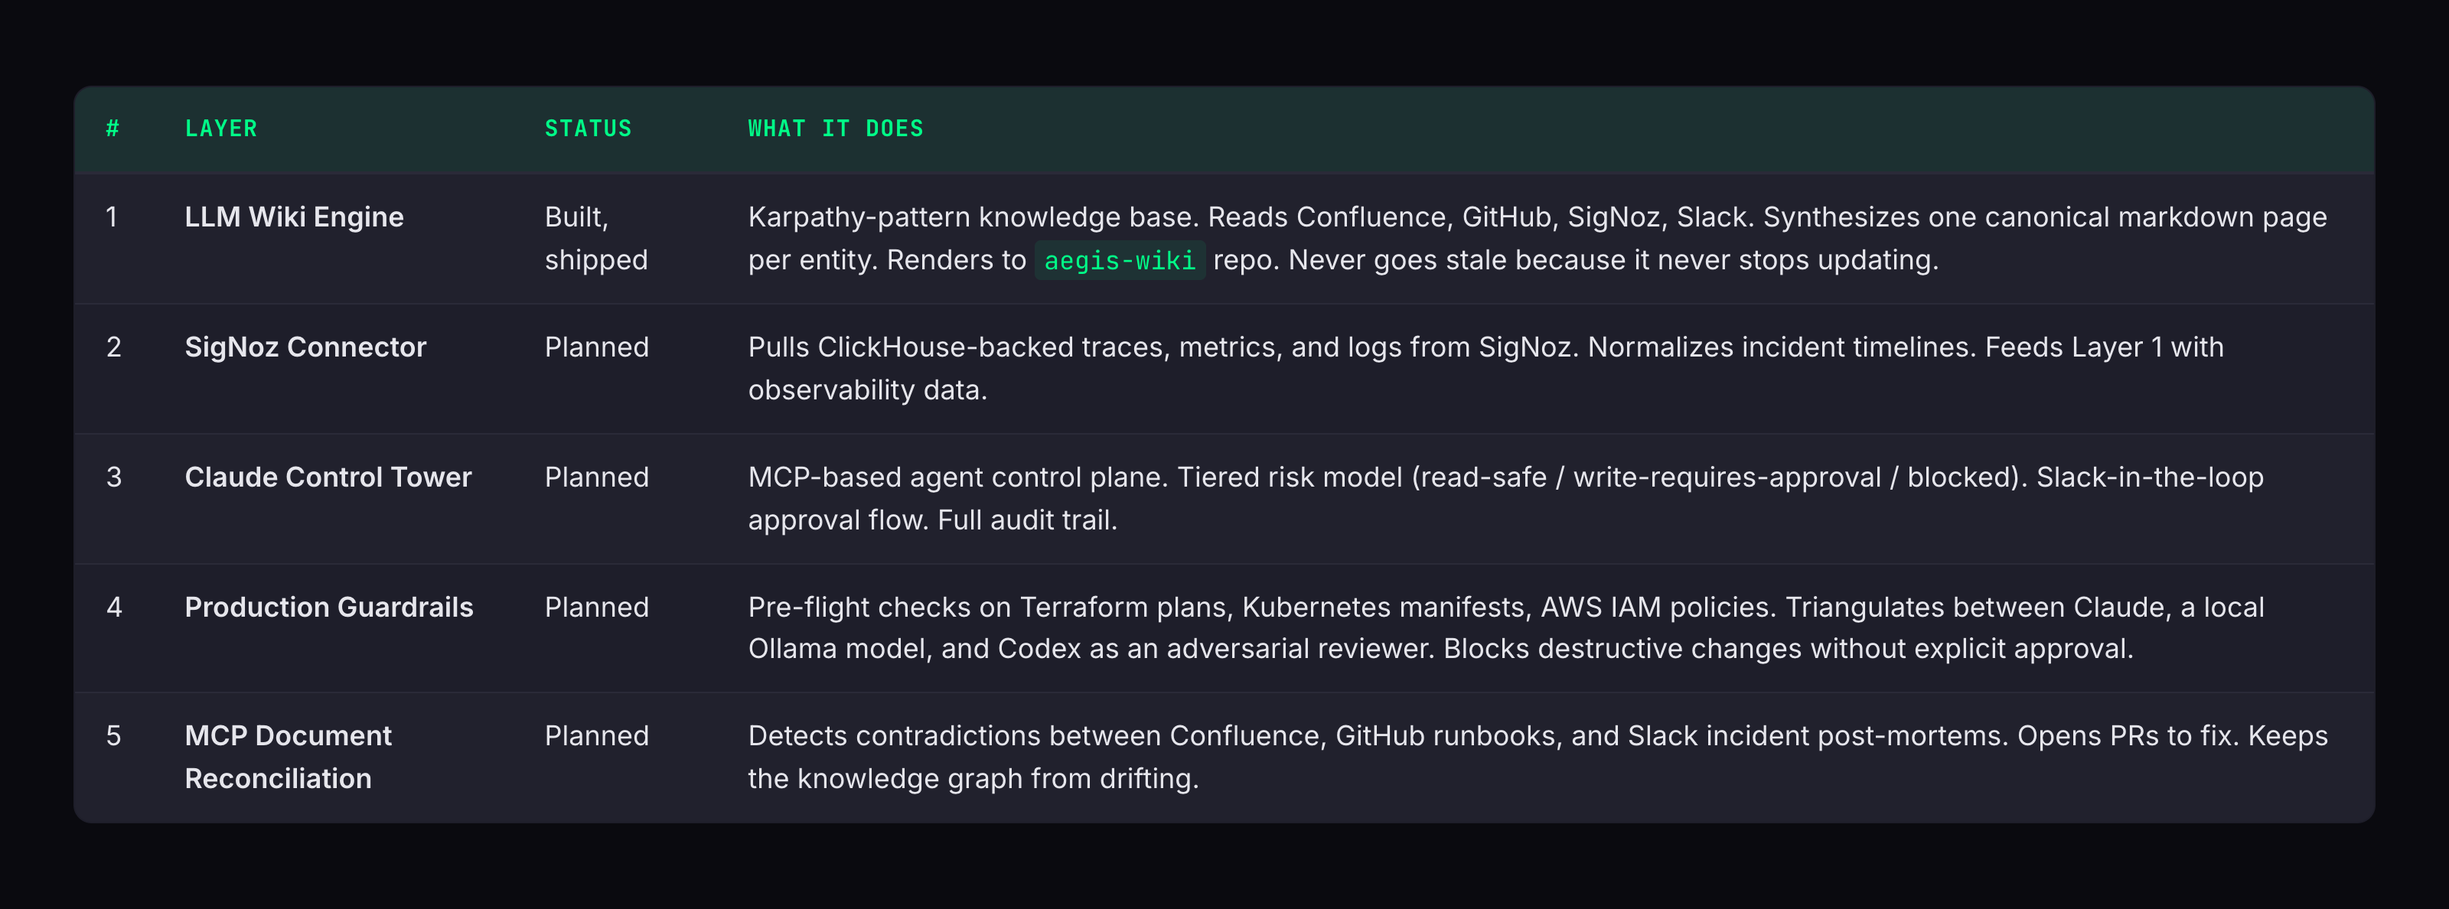
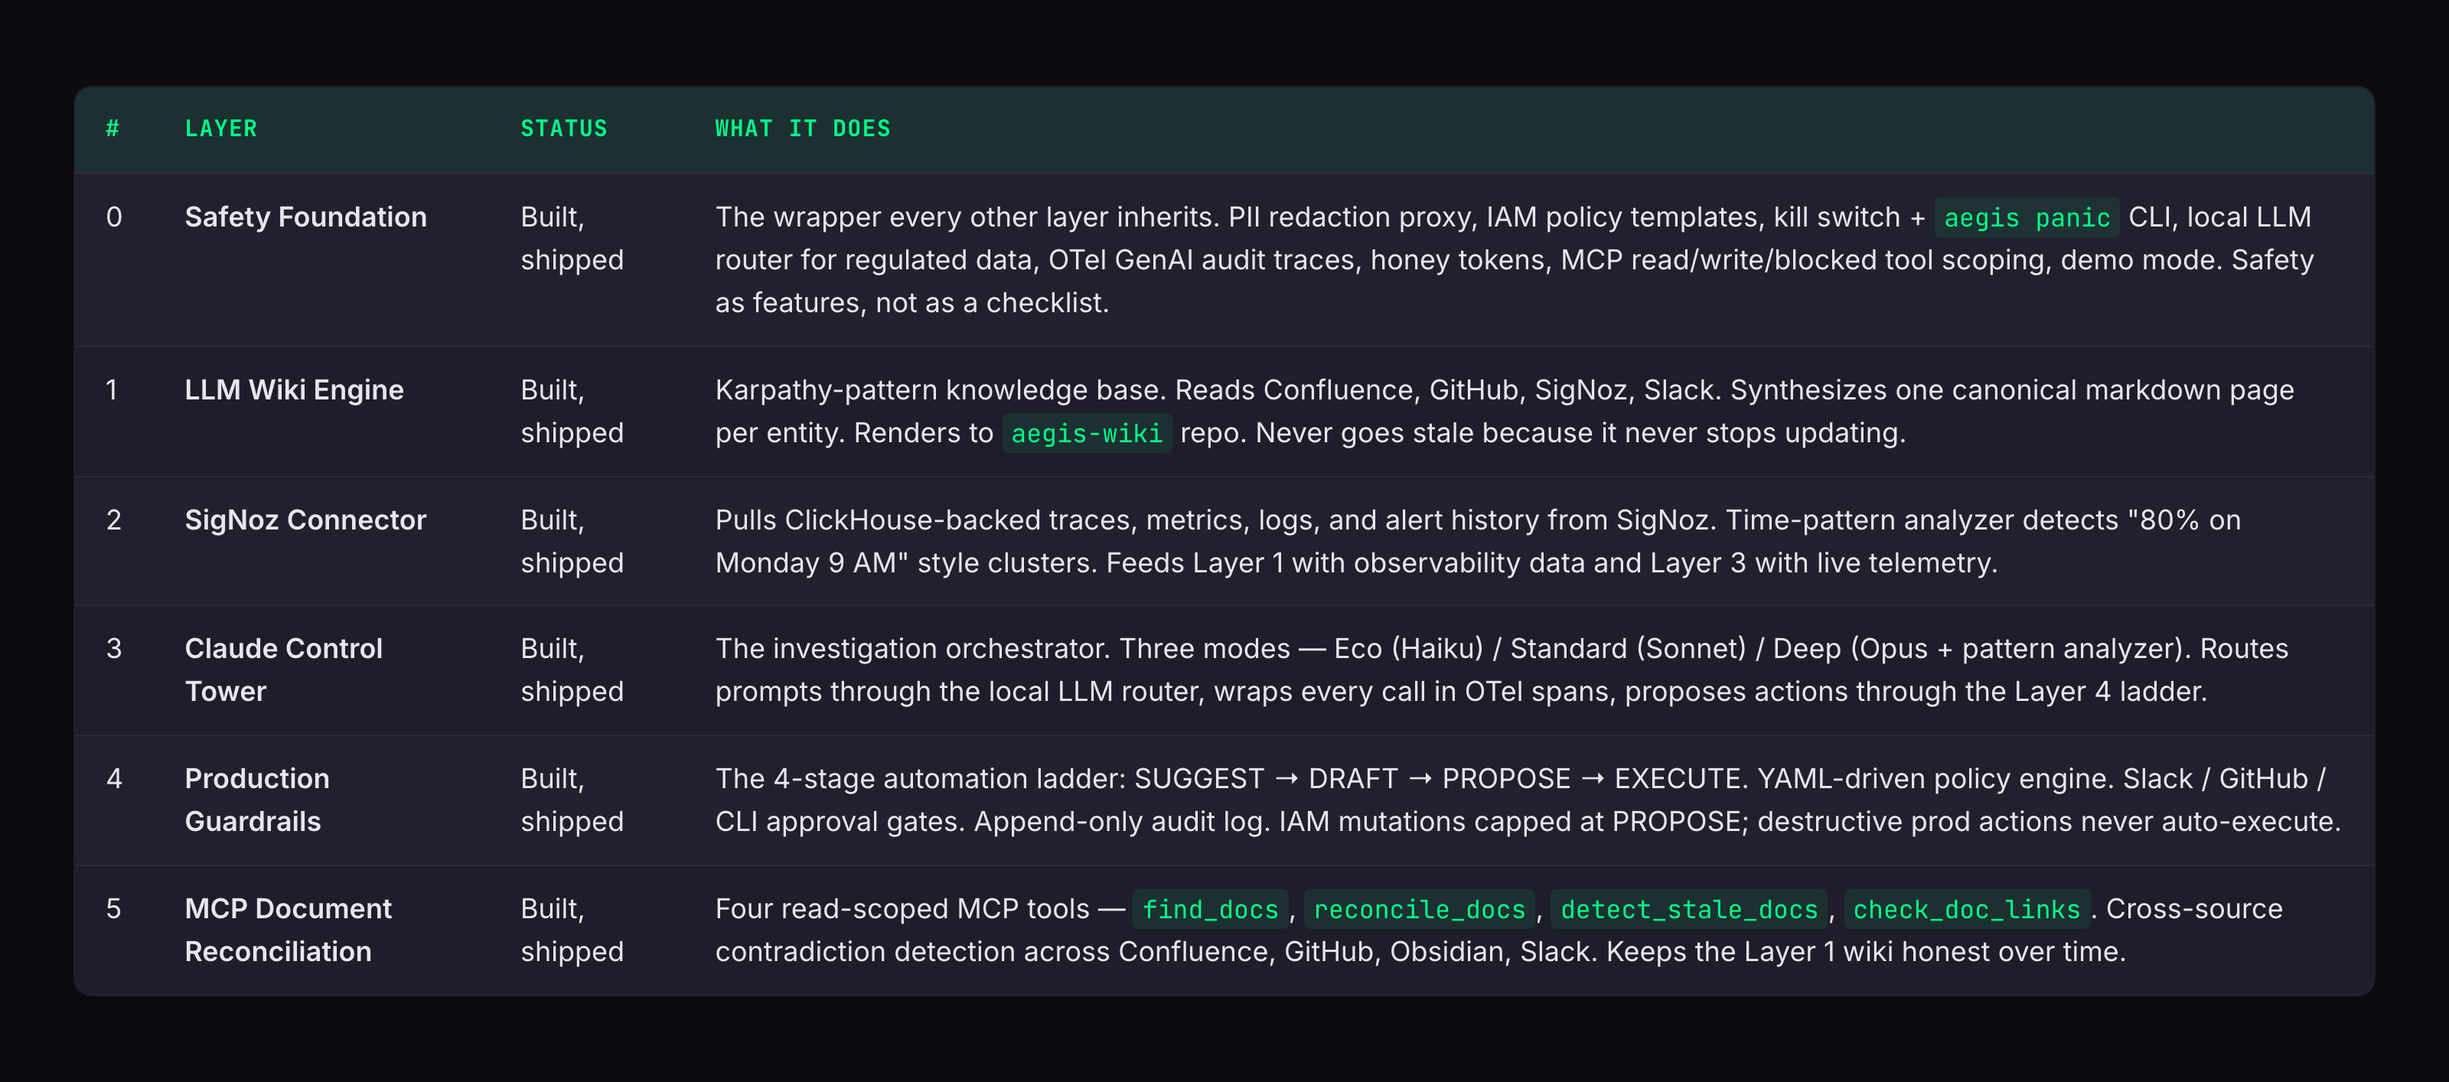
docs: align README + Article #8 + PUBLISHING with shipped state, slot Article #12
The codebase has shipped Layers 0-5 but the README and Article #8 still
described several layers as 'in progress' or 'planned'. This commit
realigns the public-facing narrative.

README.md:
- Status badge: 'Layers 0+1 built' -> 'Layers 0-5 built, Phase 2 starting'
- Mermaid: every layer now BUILT, dotted in-progress arrows removed
- Status table: 9 'In progress'/'Planned' rows -> 'Built'; Layer 3 path
  fixed from agents/orchestrator.py to control_tower/
- New 'Phase 2 - Roadmap' section with the 5 follow-up features
  (Control Tower wiring, MCP FinOps tool, Excel export, periodic
  scheduler, Layer 4 executor)

articles/08-open-sourcing-capstone/:
- Body: 'five layers' -> 'six layers'; 'Layer 1 is live ... Layers 2-5
  rest of 2026' -> 'all six built and shipped, Phase 2 next'
- assets/02-five-layers.md|png: regenerated as 6-row table, all built
- assets/04-roadmap.md|png: April 2026 'done' line + Phase 2 schedule
  through July, plus Article #12 slot
- assets/02 + 04 IMAGE alt text: updated to match the new render
- Body line 263: 'Layer 3 of Aegis' (now done) -> 'Phase 2 of Aegis'

articles/PUBLISHING.md:
- Added Article #12 row: 'From Investigator to Operator - Wiring the
  Self-Healing Executor' (Phase 2 capstone, drafts after P2.5 ships)

articles/12-investigator-to-operator/README.md:
- New stub. Outline + planned source-file references + draft date.
  Will become article.md once the executor is built.
[…]

diff --git a/README.md b/README.md
@@ -6,7 +6,7 @@
 
 [![CI](https://img.shields.io/github/actions/workflow/status/JIUNG9/aegis/ci.yml?label=ci&logo=github)](https://github.com/JIUNG9/aegis/actions)
 [![License](https://img.shields.io/badge/license-MIT-blue.svg)](LICENSE)
-[![Status](https://img.shields.io/badge/status-v4.0%20Layers%200%20%2B%201%20built-brightgreen)](docs/ARCHITECTURE.md)
+[![Status](https://img.shields.io/badge/status-v4.0%20Layers%200--5%20built%20%C2%B7%20Phase%202%20starting-brightgreen)](docs/ARCHITECTURE.md)
 [![TypeScript](https://img.shields.io/badge/TypeScript-5.x-3178C6?logo=typescript&logoColor=white)](https://www.typescriptlang.org/)
 [![Next.js](https://img.shields.io/badge/Next.js-16-000?logo=next.js)](https://nextjs.org/)
 [![Go](https://img.shields.io/badge/Go-1.22+-00ADD8?logo=go&logoColor=white)](https://go.dev/)
@@ -38,10 +38,10 @@ graph TB
   subgraph AEGIS["Aegis v4.0 — 6 Layers"]
     L0[Layer 0: Safety Foundation<br/>PII proxy / IAM / kill switch / OTel / honey tokens<br/><b>BUILT</b>]
     L1[Layer 1: LLM Wiki<br/>Karpathy Pattern<br/><b>BUILT</b>]
-    L2[Layer 2: SigNoz Connector<br/>HTTP API + pattern analyzer<br/>in progress]
-    L3[Layer 3: Claude Control Tower<br/>Eco / Standard / Deep<br/>planned]
-    L4[Layer 4: Production Guardrails<br/>4-Stage Automation Ladder<br/>in progress]
-    L5[Layer 5: MCP Doc Reconciliation<br/>Confluence + GitHub + Incidents<br/>in progress]
+    L2[Layer 2: SigNoz Connector<br/>HTTP API + pattern analyzer<br/><b>BUILT</b>]
+    L3[Layer 3: Claude Control Tower<br/>Eco / Standard / Deep<br/><b>BUILT</b>]
+    L4[Layer 4: Production Guardrails<br/>4-Stage Automation Ladder<br/><b>BUILT</b>]
+    L5[Layer 5: MCP Doc Reconciliation<br/>Confluence + GitHub + Incidents<br/><b>BUILT</b>]
   end
   User[SRE on-call] --> L3
   Alert[SigNoz alert] --> L3
@@ -76,15 +76,27 @@ Full design document, component boundaries, trust model, and cost envelope: [doc
 | 1 | Confluence sync | Built | `apps/ai-engine/wiki/confluence_sync.py` |
 | 1 | SigNoz wiki sync | Built | `apps/ai-engine/wiki/signoz_sync.py` |
 | 1 | Git publisher | Built | `apps/ai-engine/wiki/publisher.py` |
-| 2 | SigNoz HTTP connector | In progress | `apps/ai-engine/connectors/` |
-| 2 | Time-based pattern analyzer | In progress | `apps/ai-engine/connectors/pattern_analyzer/` |
-| 3 | Claude Control Tower | Planned | `apps/ai-engine/agents/orchestrator.py` |
-| 3 | Three-mode routing (Eco / Standard / Deep) | Built (UI), planned (backend) | `apps/web/src/app/(dashboard)/settings/` |
-| 4 | 4-stage automation ladder + policy engine | In progress | `apps/ai-engine/guardrails/` |
-| 4 | Risk classifier | In progress | `apps/ai-engine/guardrails/risk.py` |
-| 4 | Slack approval gate | In progress | `apps/ai-engine/guardrails/approval.py` |
-| 4 | Audit logger (SOC2 trail) | In progress | `apps/ai-engine/guardrails/audit.py` |
-| 5 | MCP docs reconciliation tools (4 read tools) | In progress | `apps/ai-engine/mcp/tools/read/docs_*.py` |
+| 2 | SigNoz HTTP connector | Built | `apps/ai-engine/connectors/` |
+| 2 | Time-based pattern analyzer | Built | `apps/ai-engine/connectors/pattern_analyzer/` |
+| 3 | Claude Control Tower | Built | `apps/ai-engine/control_tower/` |
+| 3 | Three-mode routing (Eco / Standard / Deep) | Built | `apps/ai-engine/control_tower/modes.py` |
+| 4 | 4-stage automation ladder + policy engine | Built | `apps/ai-engine/guardrails/` |
+| 4 | Risk classifier | Built | `apps/ai-engine/guardrails/risk.py` |
+| 4 | Slack approval gate | Built | `apps/ai-engine/guardrails/approval.py` |
+| 4 | Audit logger (SOC2 trail) | Built | `apps/ai-engine/guardrails/audit.py` |
+| 5 | MCP docs reconciliation tools (4 read tools) | Built | `apps/ai-engine/mcp/tools/read/docs_*.py` |
+
+### Phase 2 — Roadmap (next 4–6 weeks)
+
+The 6-layer architecture is shipped and tested. Phase 2 turns Aegis from an *advisory* AI SRE into a *self-healing* one, plus closes the FinOps and operational gaps users have asked for.
+
+| # | Component | Status | Effort | What it unlocks |
+|---|---|---|---|---|
+| P2.1 | Wire Control Tower into `main.py` (`/api/v1/investigate`) | Planned | ~2 hours | Live investigation endpoint; unblocks every Phase 2 feature below |
+| P2.2 | MCP FinOps tool — Cost Explorer / OpenCost / Kubecost queries via MCP | Planned | ~1 day | Claude can answer cost questions; cost anomalies become first-class context |
+| P2.3 | FinOps Excel/CSV export — `openpyxl` serializer + Download buttons | Planned | ~1 day | Costs leave the dashboard as spreadsheets your CFO can open |
+| P2.4 | Periodic sync scheduler — APScheduler + tunable interval per connector | Planned | ~3 days | 24/7 background pulls; replaces "POST to sync" with autonomous polling |
+| P2.5 | Layer 4 executor — turns `ProposedAction` into actually-run kubectl/terraform/aws commands under the 4-stage ladder | Planned | ~1 week | The thing that makes Aegis *self-healing* instead of advisory. Article #12 documents this. |
 
 Frontend modules already shipped: Log Explorer, SLO Dashboard, FinOps, Incidents, Security, Deployments, On-Call, Services, IAM, Cloud Accounts, Settings (general, integrations, AI & tokens, team, safety). See `apps/web/src/app/(dashboard)/`.
 

diff --git a/articles/08-open-sourcing-capstone/article.md b/articles/08-open-sourcing-capstone/article.md
@@ -109,13 +109,13 @@ That is Aegis.
 
 ## What Aegis actually is
 
-Aegis is an open-source AI-Native DevSecOps Command Center. It is five layers, each of which solves a real operational problem I have lived through on-call.
+Aegis is an open-source AI-Native DevSecOps Command Center. It is six layers, each of which solves a real operational problem I have lived through on-call.
 
-### The five layers
+### The six layers
 
-[IMAGE: assets/02-five-layers.png — five-row layer-by-layer table of Aegis (Layer 1 LLM Wiki Engine built/shipped, Layers 2-5 planned: SigNoz Connector, Claude Control Tower, Production Guardrails, MCP Document Reconciliation) with a one-line "what it does" per row]
+[IMAGE: assets/02-five-layers.png — six-row layer table for Aegis: Layer 0 Safety Foundation, Layer 1 LLM Wiki Engine, Layer 2 SigNoz Connector, Layer 3 Claude Control Tower, Layer 4 Production Guardrails, Layer 5 MCP Document Reconciliation. All six built and shipped.]
 
-Layer 1 is live today. I'll ship Layers 2 through 5 over the rest of 2026.
+All six layers are built and pushed today. The next horizon is Phase 2 — turning Aegis from an *advisory* AI SRE into a *self-healing* one. That's covered in Article #12.
 
 ### Architecture at a glance
 
@@ -260,7 +260,7 @@ I looked at it carefully and I decided against it, for three reasons that I thin
 
 **Second**, a certification is a lagging indicator. It proves you studied for an exam. A public repo proves you built something. When recruiters screen for senior roles, they are looking for signal of judgment — what you chose to build, how you reasoned about trade-offs, how you wrote about the result. An AWS SAA sticker on a LinkedIn profile is a nice-to-have but it is not what wins a shortlist spot.
 
-**Third**, my time budget is finite. I have evenings and weekends for the next nine months. Every hour I spend grinding flashcards for a CKA exam is an hour I am not spending on Layer 3 of Aegis, or on the next Medium article, or on the Terraform modules I'm planning to open-source. The opportunity cost is real.
+**Third**, my time budget is finite. I have evenings and weekends for the next nine months. Every hour I spend grinding flashcards for a CKA exam is an hour I am not spending on Phase 2 of Aegis (the self-healing executor), or on the next Medium article, or on the Terraform modules I'm planning to open-source. The opportunity cost is real.
 
 This is a deliberate bet, not a shortcut. If a specific job posting in the final stretch tells me "offer conditional on CKA," I will book the exam that week and pass it. Until then, I would rather ship the thing that proves the skill than study for the thing that certifies it.
 
@@ -272,7 +272,7 @@ This is a deliberate bet, not a shortcut. If a specific job posting in the final
 
 The rest of 2026 and the first months of 2027 look like this:
 
-[IMAGE: assets/04-roadmap.png — eight-row roadmap table from Q2 2026 through Feb 2027: publish Medium series, ship Layers 2-5 with paired articles, open-source three Terraform modules, IELTS, and final Canada move in Feb 2027]
+[IMAGE: assets/04-roadmap.png — roadmap from April 2026 through February 2027. Done: Layers 0-5 shipped, Articles #1-#11 drafted, OSS hygiene CI live. Planned: P2.1-P2.5 Phase 2 features (Control Tower wiring, MCP FinOps, Excel export, periodic scheduler, Layer 4 executor), Article #12 on the executor, three Terraform modules, a large tech company Tier C deployment, IELTS, Canada move Feb 2027.]
 
 Certifications are on the "only if a job posting requires one" list. I have looked at dozens of Canadian SRE and Platform Engineering postings, and the ones I am targeting consistently ask for demonstrable hands-on experience with the stack I already run. If a specific posting demands AWS Solutions Architect Associate, Certified Kubernetes Administrator, or Terraform Associate, I will take the exam. Otherwise that time is better spent shipping Layer 4 or writing Article 12.
 

diff --git a/articles/12-investigator-to-operator/README.md b/articles/12-investigator-to-operator/README.md
@@ -1,0 +1,43 @@
+# Article #12 — From Investigator to Operator: Wiring the Self-Healing Executor
+
+**Status:** outline only. Will be drafted after Phase 2.5 (Layer 4 executor) ships.
+
+## What this article will cover
+
+Phase 2 of Aegis turns the agent from an investigator (says what's wrong, suggests what to do) into an operator (actually runs the fix under the 4-stage automation ladder). This article documents that leap.
+
+The shape:
+
+1. **The honest gap** — Layer 3 produces beautiful `ProposedAction` objects. Layer 4 correctly classifies whether they're EXECUTE-eligible. Nothing actually runs the kubectl/terraform/aws command. The ladder existed; the bottom rung was missing.
+2. **Why we waited** — building the executor BEFORE the safety foundation (Layer 0) and the policy engine (Layer 4) would have been irresponsible. The order matters: investigate → propose → gate → execute, with safety wrapping every step.
+3. **What the executor is** — `apps/ai-engine/executor/`. Reads `ProposedAction.tier`, validates approvals, dispatches via thin wrappers around kubectl/terraform/aws-cli, captures stdout/stderr, attaches `execution_result` to the `Investigation`, writes audit JSONL. Around 800 LoC.
+4. **The three rules that keep it sane** — (a) no executor wrapper accepts arbitrary shell, only typed commands; (b) every wrapper has a dry-run mode tested in CI; (c) the kill switch is checked one last time at the moment of execute, after every other gate has cleared.
+5. **The first 5 actions we autoprobe** — pod restart, deployment scale, log query, CloudWatch metric query, RDS describe. None of them mutating in ways that can't be reversed in under 60 seconds.
+6. **What broke and what we learned** — to be filled in once we run it for a month.
+
+## Source files this article will reference
+
+- `apps/ai-engine/executor/__init__.py` (TBD)
+- `apps/ai-engine/executor/dispatcher.py` (TBD)
+- `apps/ai-engine/executor/wrappers/{kubectl,terraform,aws}.py` (TBD)
+- `apps/ai-engine/executor/audit.py` (TBD)
+- `apps/ai-engine/control_tower/orchestrator.py` (already shipped, will be edited to call executor)
+
+## Estimated draft date
+
+**July 2026**, after Phase 2.5 (executor) ships. Phase 2.5 is currently planned for late June.
+
+## Tags (planned)
+
+`AI`, `SRE`, `DevOps`, `Automation`, `Open Source`
+
+## Related
+
+- [docs/ARCHITECTURE.md](../../docs/ARCHITECTURE.md) — Layer 3 + Layer 4 architecture
+- [README.md](../../README.md) — Phase 2 roadmap
+- Article #4 (4-Stage Automation Ladder) — the policy framing
+- Article #5 (Claude + MCP Replaced Our Pager) — the investigation flow that feeds the executor
+
+## Why this is the natural capstone of Phase 2
+
+Phase 1 (the original 6 layers) gave us a system that *understands* infrastructure. Phase 2 gives us a system that *acts* on it under safety constraints. The article is the moment that distinction clicks for the reader. It's also the article a Canadian SRE hiring manager will forward — "this engineer designed an automation system carefully enough to actually run it in production."

diff --git a/articles/08-open-sourcing-capstone/assets/02-five-layers.md b/articles/08-open-sourcing-capstone/assets/02-five-layers.md
@@ -1,7 +1,8 @@
 | # | Layer | Status | What it does |
 |---|-------|--------|--------------|
+| 0 | **Safety Foundation** | Built, shipped | The wrapper every other layer inherits. PII redaction proxy, IAM policy templates, kill switch + `aegis panic` CLI, local LLM router for regulated data, OTel GenAI audit traces, honey tokens, MCP read/write/blocked tool scoping, demo mode. Safety as features, not as a checklist. |
 | 1 | **LLM Wiki Engine** | Built, shipped | Karpathy-pattern knowledge base. Reads Confluence, GitHub, SigNoz, Slack. Synthesizes one canonical markdown page per entity. Renders to `aegis-wiki` repo. Never goes stale because it never stops updating. |
-| 2 | **SigNoz Connector** | Planned | Pulls ClickHouse-backed traces, metrics, and logs from SigNoz. Normalizes incident timelines. Feeds Layer 1 with observability data. |
-| 3 | **Claude Control Tower** | Planned | MCP-based agent control plane. Tiered risk model (read-safe / write-requires-approval / blocked). Slack-in-the-loop approval flow. Full audit trail. |
-| 4 | **Production Guardrails** | Planned | Pre-flight checks on Terraform plans, Kubernetes manifests, AWS IAM policies. Triangulates between Claude, a local Ollama model, and Codex as an adversarial reviewer. Blocks destructive changes without explicit approval. |
-| 5 | **MCP Document Reconciliation** | Planned | Detects contradictions between Confluence, GitHub runbooks, and Slack incident post-mortems. Opens PRs to fix. Keeps the knowledge graph from drifting. |
+| 2 | **SigNoz Connector** | Built, shipped | Pulls ClickHouse-backed traces, metrics, logs, and alert history from SigNoz. Time-pattern analyzer detects "80% on Monday 9 AM" style clusters. Feeds Layer 1 with observability data and Layer 3 with live telemetry. |
+| 3 | **Claude Control Tower** | Built, shipped | The investigation orchestrator. Three modes — Eco (Haiku) / Standard (Sonnet) / Deep (Opus + pattern analyzer). Routes prompts through the local LLM router, wraps every call in OTel spans, proposes actions through the Layer 4 ladder. |
+| 4 | **Production Guardrails** | Built, shipped | The 4-stage automation ladder: SUGGEST → DRAFT → PROPOSE → EXECUTE. YAML-driven policy engine. Slack / GitHub / CLI approval gates. Append-only audit log. IAM mutations capped at PROPOSE; destructive prod actions never auto-execute. |
+| 5 | **MCP Document Reconciliation** | Built, shipped | Four read-scoped MCP tools — `find_docs`, `reconcile_docs`, `detect_stale_docs`, `check_doc_links`. Cross-source contradiction detection across Confluence, GitHub, Obsidian, Slack. Keeps the Layer 1 wiki honest over time. |

diff --git a/articles/08-open-sourcing-capstone/assets/04-roadmap.md b/articles/08-open-sourcing-capstone/assets/04-roadmap.md
@@ -1,10 +1,15 @@
-| Timeframe | Item |
-|-----------|------|
-| Q2 2026 | Finish Article 8 (this one), update LinkedIn, publish full series on Medium |
-| Q2 2026 | Ship Layer 2 (SigNoz Connector) + Article 9 |
-| Q3 2026 | Ship Layer 3 (Claude Control Tower) + Articles 10-11 |
-| Q3 2026 | Open-source three reusable Terraform modules (VPC hub-spoke, EKS baseline, Aurora Postgres with IAM auth) |
-| Q4 2026 | Ship Layer 4 (Production Guardrails) + Articles 12-13 |
-| Q4 2026 | IELTS General Training (when ready — targeting 7.0+ all bands) |
-| Q1 2027 | Ship Layer 5 (MCP Reconciliation) + Articles 14-15 |
-| Feb 2027 | Move to Canada |
+| Timeframe | Item | Status |
+|-----------|------|--------|
+| Apr 2026 | Ship Layers 0-5 (full 6-layer architecture) | Done |
+| Apr 2026 | Articles #1-#11 drafted, OSS hygiene CI shipped | Done |
+| May 2026 | P2.1 Wire Control Tower into `main.py` (~2 hours) | Planned |
+| May 2026 | P2.2 MCP FinOps tool (Cost Explorer / OpenCost / Kubecost) | Planned |
+| May 2026 | P2.3 FinOps Excel/CSV export | Planned |
+| May 2026 | Begin publishing Medium series — Article #1 first | In progress |
+| Jun 2026 | P2.4 Periodic sync scheduler (APScheduler) | Planned |
+| Jun-Jul 2026 | P2.5 Layer 4 executor — Aegis becomes self-healing | Planned |
+| Jul 2026 | Article #12 — *From Investigator to Operator* (the executor) | Planned |
+| Aug 2026 | Open-source three reusable Terraform modules (VPC hub-spoke, EKS baseline, Aurora Postgres with IAM auth) | Planned |
+| Aug-Sep 2026 | Aegis Tier C deployment at a large tech company (PIPA case study, Article #11 publish) | Planned |
+| Q4 2026 | IELTS General Training (when ready, targeting 7.0+ all bands) | Planned |
+| Feb 2027 | Move to Canada | Target |

diff --git a/articles/PUBLISHING.md b/articles/PUBLISHING.md
@@ -20,7 +20,8 @@ Two to three articles per month. Start with the two articles that are strongest 
 | 8 | #9 PII Proxy for Claude | Opens the Layer 0 safety arc. Technical + unique (nobody's published this pattern). |
 | 9 | #10 Honey Tokens + Kill Switches | Middle of the safety arc. Builds on #9. |
 | 10 | #11 PIPA Case Study (Tier C Deployment) | Closes the safety arc. Career-defining piece for Canadian recruiters. Pin for 2 weeks. |
-| 11 | #8 Open-Sourcing Aegis | Capstone. Career positioning. Links back to all prior articles. |
+| 11 | #8 Open-Sourcing Aegis | Capstone of the architecture story. |
+| 12 | #12 From Investigator to Operator — Wiring the Self-Healing Executor | Phase 2 capstone. The leap from "agent describes the fix" to "agent runs the fix under the 4-stage ladder." Documents Layer 4 executor (P2.5). |
 
 ---
 
